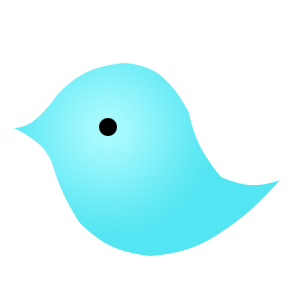
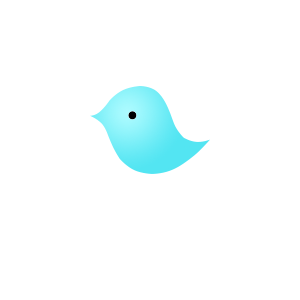
new loading

Changed region(s): [[0.06, 0.21, 0.93, 0.87], [0.42, 0.36, 0.45, 0.42]]

diff --git a/public/index.html b/public/index.html
@@ -21,14 +21,31 @@
         height: 100vh; width: 100vw;
         margin: 0; padding: 0;
       }
-      .splash-screen img {
-        height: 20%; width: auto;
+      .splash-screen .logo {
+        height: 20%; width: auto;position: relative;
+      }
+      .splash-screen .logo img {
+        height: 100%;
+        width: auto;
+      }
+      .splash-screen .logo img.dd {
+        position: absolute;left: 0;top: 0;z-index: 66;
+        /* sine ease */
+        animation: splash-icon 1s cubic-bezier(0.45, 0.05, 0.55, 0.95) infinite;
+      }
+      @keyframes splash-icon {
+        0% { transform: translateY(5px); }
+        50% { transform: translateY(-5px); }
+        100% { transform: translateY(5px); }
       }
     </style>
 
     <div id="app">
       <div class="splash-screen">
-        <img src="img/dd.png" />
+        <div class="logo">
+          <img src="img/monitor.png" />
+          <img class="dd" src="img/dd.png" />
+        </div>
         <h3>Loading...</h3>
       </div>
     </div>
